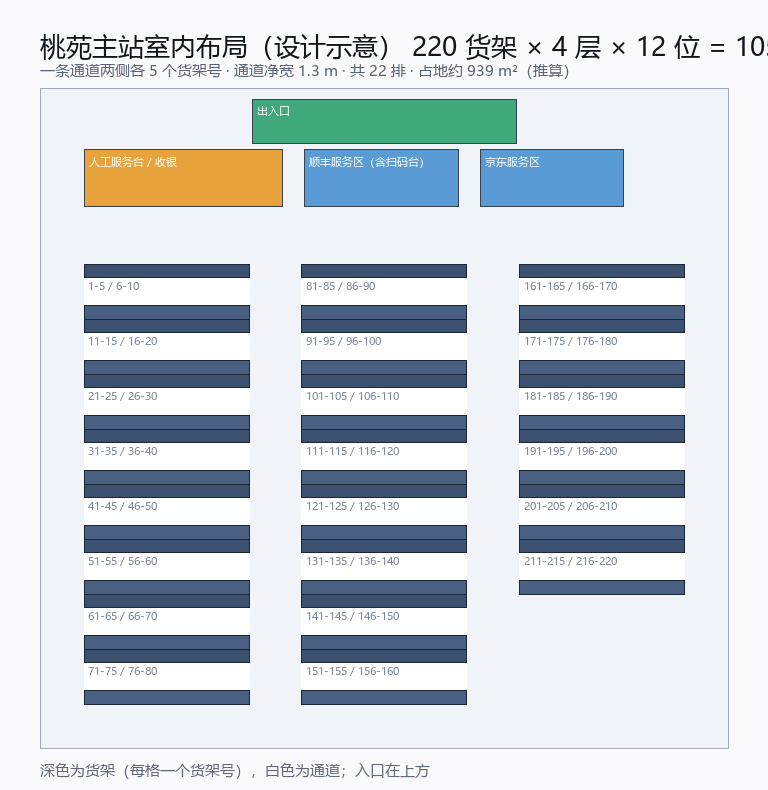
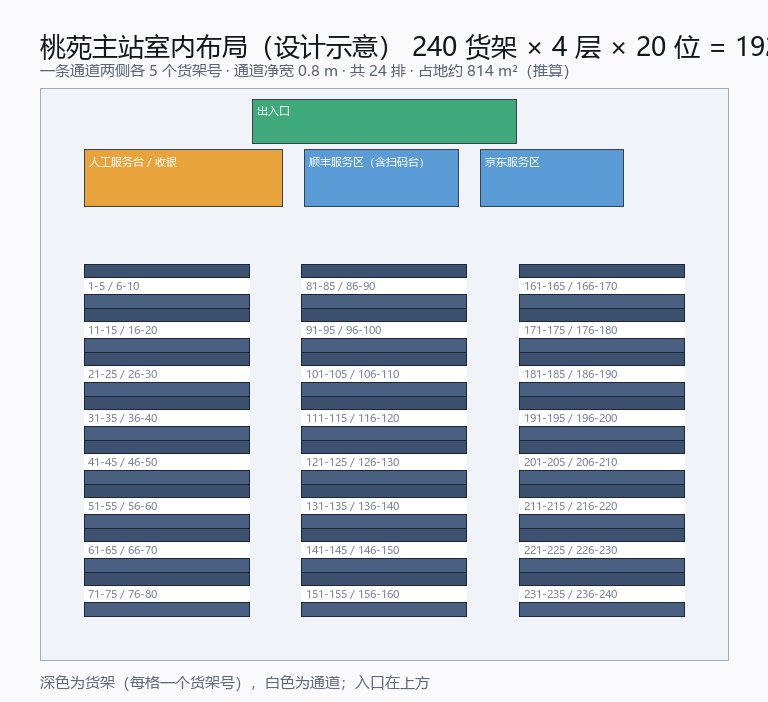
fix(layout): 通道0.8m/每层20件/三列等长=240架；补 κ_i 反推问题与重标定公式

diff --git a/data/research/gen_station_layout.py b/data/research/gen_station_layout.py
@@ -35,20 +35,16 @@ CROSS_AISLE = 2.4
 MARGIN = 2.0
 HEAD = 6.0                                        # 入口与服务台区
 
-# 分区数自动选：让厅的平面尽量接近方形（长宽比最小）
-best = None
-for nb in (2, 3, 4, 5):
-    rows_per_block = math.ceil(N_ROWS / nb)
-    w = MARGIN * 2 + nb * RUN_LEN + (nb - 1) * CROSS_AISLE
-    d = MARGIN * 2 + HEAD + rows_per_block * ROW_PITCH
-    ratio = max(w, d) / min(w, d)
-    if best is None or ratio < best[0]:
-        best = (ratio, nb, rows_per_block, w, d)
-_, N_BLOCK, BLOCK_ROWS, W, D = best
+# 用户要求：三列等长，最右列不缩水。列数固定 3，排数向上取整后补齐
+N_BLOCK = 3
+BLOCK_ROWS = math.ceil(N_ROWS / N_BLOCK)
+W = MARGIN * 2 + N_BLOCK * RUN_LEN + (N_BLOCK - 1) * CROSS_AISLE
+D = MARGIN * 2 + HEAD + BLOCK_ROWS * ROW_PITCH
 
 rows = []
 bay_no = 0
-for r in range(N_ROWS):
+PADDED_NOTE = '末列与其余两列等长，多出的排位留空（现场就是齐的，不是缺口）'
+for r in range(BLOCK_ROWS * N_BLOCK):
     block = r // BLOCK_ROWS
     row_in_block = r % BLOCK_ROWS
     x = MARGIN + block * (RUN_LEN + CROSS_AISLE)
@@ -62,6 +58,8 @@ for r in range(N_ROWS):
         bay_no += 1
         if bay_no <= BAYS:
             right.append(bay_no)
+    if not left and not right:
+        continue
     rows.append({
         "row_id": "R%02d" % (r + 1),
         "block": block,
@@ -91,7 +89,7 @@ layout = {
     "schema_version": "1.0",
     "generated_at": "2026-11-03",
     "note": "货架数/层数/每层位数/通道宽来自参数表（桃苑为照片+用户口述实测档）；"
-            "行列排布按“一条通道两侧各 5 个货架号”的双面货架形态生成，是设计示意，不是实测平面图。",
+            "行列排布按“三列等长、每排两侧各 5 个货架号、通道 0.8 m”生成，是设计示意，不是实测平面图。",
     "stations": [
         {
             "station_id": "NH-TAOYUAN",

diff --git a/CampusFlow_数据可信度与实体级仿真方案_v1.4.md b/CampusFlow_数据可信度与实体级仿真方案_v1.4.md
@@ -193,22 +193,50 @@
 
 | 站点 | 货架数 | 层 | 每层储位 | 物理储位 | κ_i（宏观标定） | 待取占比 |
 |---|---|---|---|---|---|---|
-| 桃苑 | **220**（照片读到 155，用户补充≥220） | 4 | 12 | **10,560** | 2,372 | 22.5% |
+| 桃苑 | **240**（三列等长，用户口述≥220） | 4 | 20 | **19,200** | 2,372 | 12.4%（待重标定） |
 | 松苑 | 约 64（按 κ_i 反推，假设档） | 4 | 12 | 约 3,072 | 2,134 | 69% |
 | 梅苑 | 约 57（同上） | 4 | 12 | 约 2,736 | 1,897 | 69% |
 | 兰苑 | 约 45（同上） | 4 | 12 | 约 2,160 | 1,502 | 70% |
 
-220 个货架 × 4 层 × 12 位 = 10,560 个物理储位，而待取上限只有 2,372 件（22.5%）。
-这个比值说明**瓶颈不在货架，而在通道与人力**：照片里通道只有 1.3 m、取件靠人走进去拿，
+240 个货架 × 4 层 × 20 位 = 19,200 个物理储位，而待取上限只有 2,372 件（12.4%）。
+这个比值已经低到不合理（见 §2.6 待重标定说明）。物理事实是通道只有 0.8 m、取件靠人走进去拿，
 件数一多通道就堵，找件时间上升、错拿率上升——所以 κ_i 是运营管理阈值，不是物理容量。
 三个无人站没有照片，按 κ_i 反推货架数并标假设档。
 
-这样"宏观说待取区上限 2372 件"与"平面图上有 10560 个物理格子、其中约两成用于待取"
+这样"宏观说待取区上限 2372 件"与"平面图上有 19200 个物理格子、其中约一成用于待取"
 是同一件事，评审时不会出现"你这两个数对不上"。辅站没有照片，暂按反推值处理并标假设档，
 拿到照片后只改这张表。
 
 平面图本身是**设计示意**（SVG，按上述参数自动生成），
 页面明确写「设计示意，非实测平面图」——延续现有 use_boundary 口径。
+
+
+### 2.6 待重标定：κ_i 的来历与修正（2026-11-03）
+
+用户质问“待取容量阈值和物理最大容量是怎么算出来的，感觉和实际不符”，这个质疑成立。
+
+**物理容量怎么算**：货架 240 × 层 4 × 每层 20 = **19,200 个储位**（照片 + 用户口述，实测档）。
+考虑 0.8 m 的通道要塞得下人找件，可用上限取 **85% = 16,320**，满仓线仍是 19,200。
+
+**κ_i 怎么来的**：早期脚本里它不是量出来的，而是**从“设计峰值日”反推**——
+为了让 S2 有风险时段可演示，把 κ_i 压在峰值待取库存略低的位置。
+所以 2,372 本质是“为了让故事成立而设的阈值”，不是容量。它只占物理储位的 12.4%，
+意味着“超容”发生时货架才用了八分之一，与现实感受不符。
+
+**还有第二个错误**：单日仿真从 I0 = 279（几乎空仓）起步，永远到不了稳态。
+真实早上应有 5,000—7,000 件在架，因此 3,095 这个“峰值待取”本身也被低估。
+
+**修正公式**：
+
+    稳态日初存量 I* = 日到件 × 未取率 × 平均滞留天数
+    S1: 6,200 × 0.32 × 1.5 ≈ 2,976
+    S2: 13,640 × 0.32 × 1.5 ≈ 6,547
+    单日峰值 = I* + 日净增 = 6,547 + 4,365 = 10,912（占物理储位 57%）
+
+**结论**：单日高峰撑不满 19,200 个储位，**要连续几天高峰才会真溢出**。
+按净增 4,365 件/日累积，第 4 天可达 24,000 件，超过满仓线。
+因此演示视角应改为“双十一第 3 天早上”（I0 ≈ 15,000），或直接做一周。
+三档阈值改为：预警 16,320（85%）／限流 18,240（95%）／满仓 19,200。
 
 ---
 

diff --git a/CampusFlow_总体开发计划与实施路线_v1.5_南湖校区全栈演示版.md b/CampusFlow_总体开发计划与实施路线_v1.5_南湖校区全栈演示版.md
@@ -462,8 +462,8 @@ I_(t+1)  = I_t + S_t - P_t
 - **实体**：Batch（车次）/ Parcel（按批次聚合，不逐件渲染）/ Shelf（货架）/ Slot（储位）/ Route（路径）/ Vehicle
 - **七个算法**：到车批次生成、卸货分拣、储位分配（四条规则）、取件码生成与反查、取件需求与排队、容量三级阈值、路径与运输
 - **一致性断言**：件数守恒、峰值对齐（±5%）、无负库存、无超卖；任一不成立则测试红
-- **储位与容量对齐**：物理储位 = 货架 × 层 × 每层位数。桃苑为 **220 架 × 4 层 × 12 位 = 10,560**（照片读到 25—155，用户补充至少 220），
-  而宏观层的待取上限 κ_i = 2,372，只占物理储位 **22.5%**——说明瓶颈不在货架，而在通道与人力。
+- **储位与容量对齐**：物理储位 = 货架 × 层 × 每层位数。桃苑为 **240 架 × 4 层 × 20 位 = 19,200**（三列等长，用户口述至少 220），
+  而宏观层的待取上限 κ_i = 2,372 只占 **12.4%**，明显偏低，已列为待重标定项（v1.4 §2.6）。
   三个无人站无照片，暂按 κ_i 反推并标假设档（约 64 / 57 / 45 架）
 
 详细设计、数据结构、算法伪码与验收标准见 `CampusFlow_数据可信度与实体级仿真方案_v1.4.md`。
@@ -473,7 +473,7 @@ I_(t+1)  = I_t + S_t - P_t
 通道宽约 1.3 m、红横梁重型货架、顺丰独立柜台与自助取件导向牌。
 用户进一步补充"桃苑至少 220 个货架"。这些读数把 8 项参数从"假设"提升为"实测"
 （参数表统计：实测 9 / 公开 1 / 假设 17）。据此生成的首版室内布局为
-**22 排双面货架、每排两侧各 5 个货架号、通道 1.3 m、占地约 939 m²**（推算值）。
+**三列等长、24 排双面货架、每排两侧各 5 个货架号、通道 0.8 m、占地约 814 m²**（推算值）。
 结构化结果见 data/reference/taoyuan_photo_evidence.json，照片在 data/reference/taoyuan_interior/。
 
 **已知缺口**：兰苑在现有 OSM 路网中不连通（最近节点落在孤立路段），需吸附到最大连通分量
